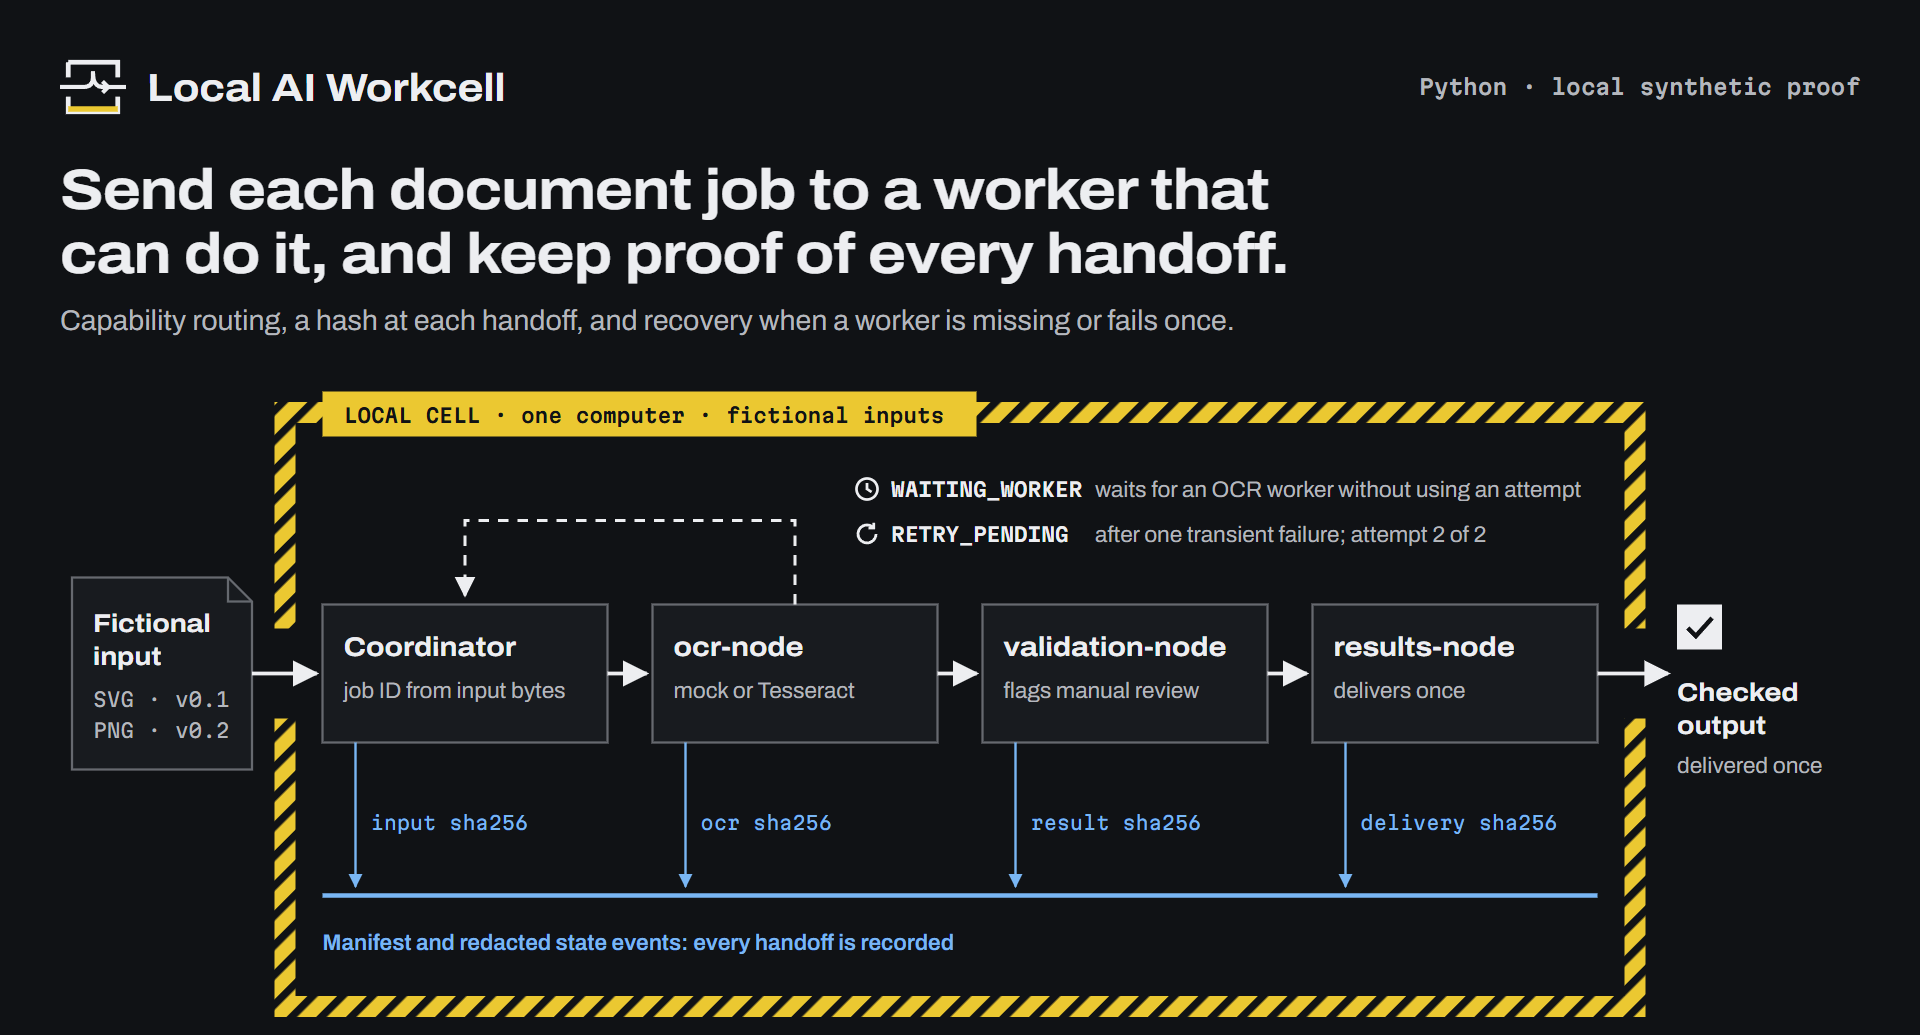
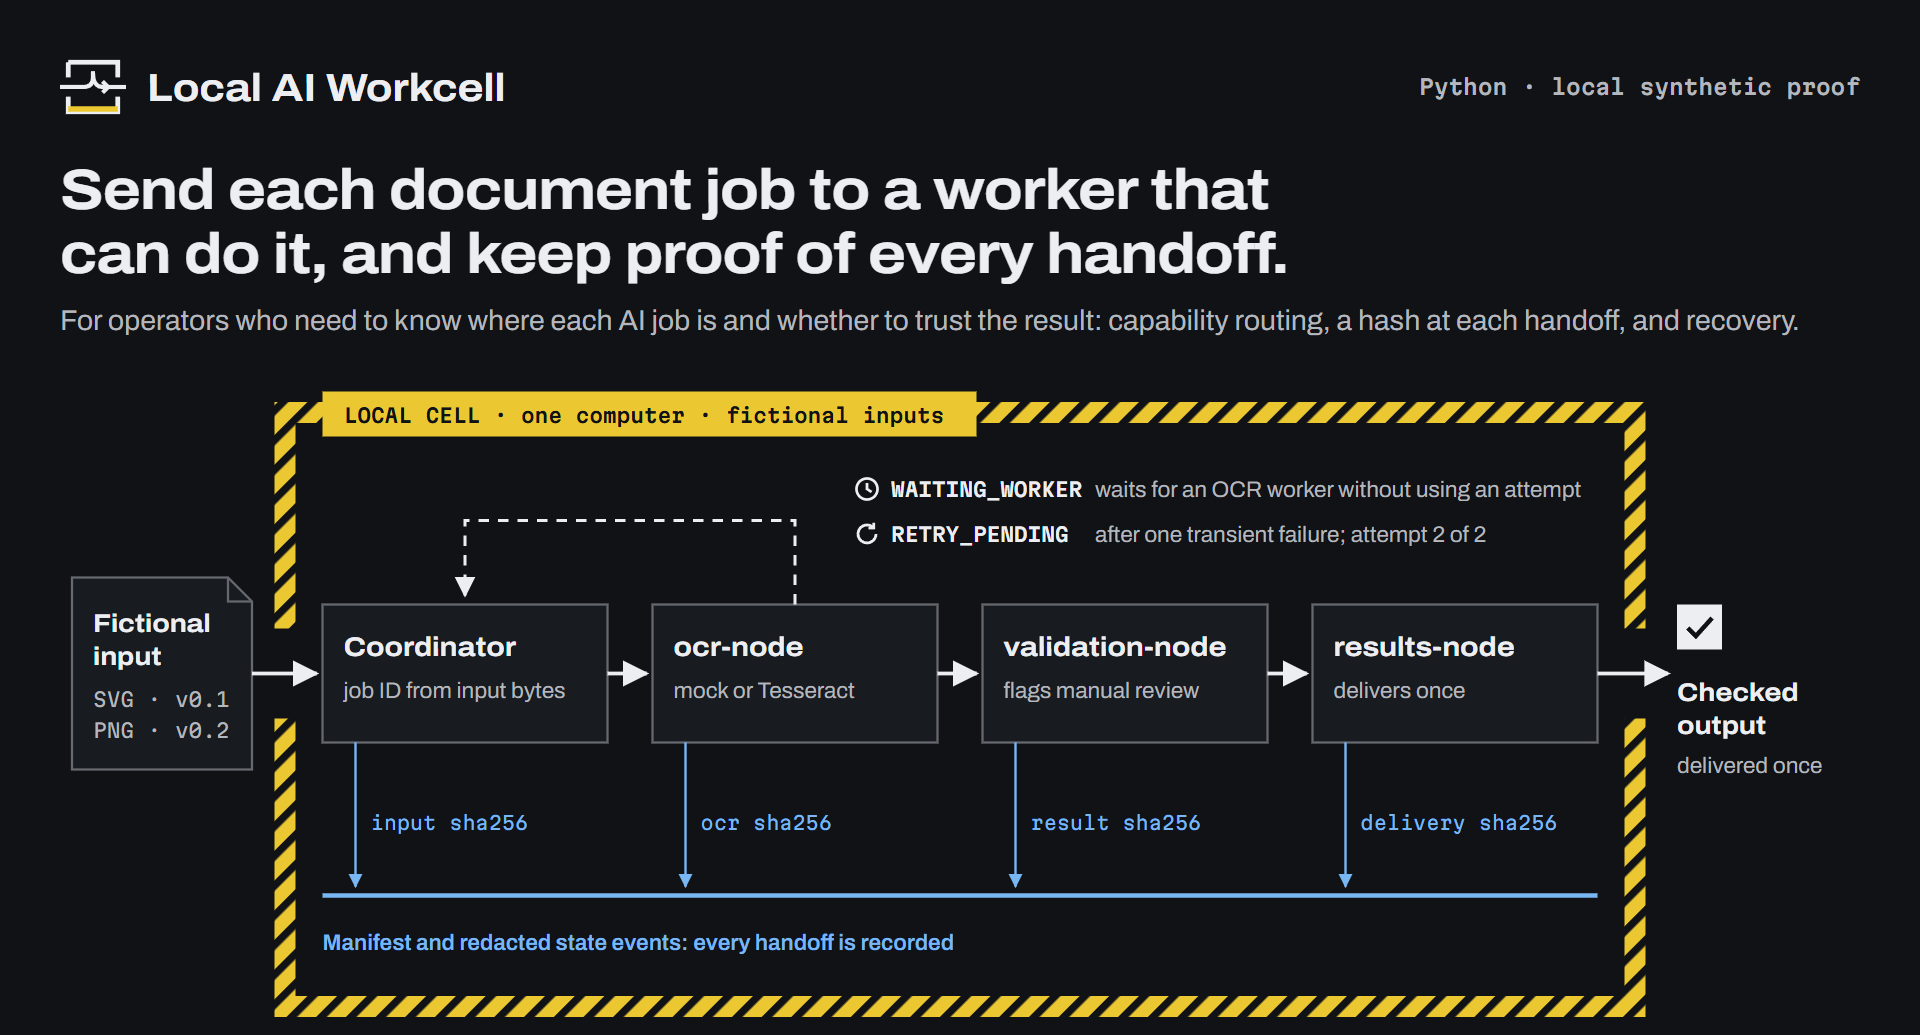
Final presentation corrections before publication
Fix the clipped Finanzas hero (G3-FF-001) by capturing the whole canvas,
state who each product serves on its first screen, align Ledger fit and
E0 wording with the interface, and move focus to the held items when the
Finanzas primary action is used. Assets re-rendered from source data.

Changed region(s): [[0.0312, 0.2783, 0.9375, 0.3401]]

diff --git a/index.html b/index.html
@@ -188,7 +188,7 @@ footer { padding: 24px 0 36px; border-top: 1px solid var(--hairline); color: var
 <nav aria-label="Page"><a href="#how">How it works</a><a href="#jobs">Recovery trail</a><a href="#v2-proof">v0.2 process proof</a><a href="#role">Leonel's role</a></nav></div></header>
 <main id="main"><section class="hero shell" aria-labelledby="page-title">
 <h1 id="page-title">Send each document job to a worker that can do it, and keep proof of every handoff.</h1>
-<p class="lede">A coordinator routes fictional documents to OCR, validation, and results workers by capability, records a hash at each handoff, and recovers when a worker is missing or fails once. Leonel designed the operating pattern and its checks. It runs on one computer.</p>
+<p class="lede">For anyone who has to say where an AI job is and whether its result can be trusted. A coordinator routes fictional documents to OCR, validation, and results workers by capability, records a hash at each handoff, and recovers when a worker is missing or fails once. Leonel designed the operating pattern and its checks. It runs on one computer.</p>
 <div class="result"><p class="result-line"><svg class="glyph" viewBox="0 0 16 16" aria-hidden="true"><rect width="16" height="16" class="g-fill"/><path d="M4 8.5l2.6 2.6L12 5.5" class="g-cut"/></svg><span>2 of 2 synthetic jobs delivered <span class="result-detail">· 1 waited for a worker · 1 retried once · 0 unresolved</span></span></p>
 <div class="actions"><a class="action action-primary" href="#jobs">Inspect the recovery trail</a><a class="action" href="https://github.com/LeonelIvanCortesRodriguez/local-ai-workcell#run-it-locally">Run it locally</a></div></div>
 <figure class="cell" id="how" aria-describedby="cell-caption">

diff --git a/workcell/view.py b/workcell/view.py
@@ -78,7 +78,7 @@ def render_status(manifests: list[dict]) -> str:
 <nav aria-label="Page"><a href="#how">How it works</a><a href="#jobs">Recovery trail</a><a href="#v2-proof">v0.2 process proof</a><a href="#role">Leonel's role</a></nav></div></header>
 <main id="main"><section class="hero shell" aria-labelledby="page-title">
 <h1 id="page-title">Send each document job to a worker that can do it, and keep proof of every handoff.</h1>
-<p class="lede">A coordinator routes fictional documents to OCR, validation, and results workers by capability, records a hash at each handoff, and recovers when a worker is missing or fails once. Leonel designed the operating pattern and its checks. It runs on one computer.</p>
+<p class="lede">For anyone who has to say where an AI job is and whether its result can be trusted. A coordinator routes fictional documents to OCR, validation, and results workers by capability, records a hash at each handoff, and recovers when a worker is missing or fails once. Leonel designed the operating pattern and its checks. It runs on one computer.</p>
 <div class="result"><p class="result-line">{state_glyph('DELIVERED')}<span>{delivered} of {len(manifests)} synthetic jobs delivered <span class="result-detail">· {detail}</span></span></p>
 <div class="actions"><a class="action action-primary" href="#jobs">Inspect the recovery trail</a><a class="action" href="{REPO}#run-it-locally">Run it locally</a></div></div>
 <figure class="cell" id="how" aria-describedby="cell-caption">

diff --git a/design/compose.py b/design/compose.py
@@ -46,7 +46,7 @@ h1 { max-width: none; margin: 26px 0 8px; font-size: 38px; line-height: 1.12; }
     body = f"""<div class="canvas"><div class="top"><div class="id">{mark_svg(44)}<span class="wordmark">Local AI Workcell</span></div>
 <span class="tag">Python · local synthetic proof</span></div>
 <h1>{escape(PROMISE)}</h1>
-<p class="sub">Capability routing, a hash at each handoff, and recovery when a worker is missing or fails once.</p>
+<p class="sub">For operators who need to know where each AI job is and whether to trust the result: capability routing, a hash at each handoff, and recovery.</p>
 {wide_svg("hero")}</div>"""
     return page("Local AI Workcell hero", css, body)
 
